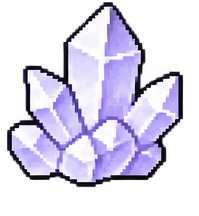
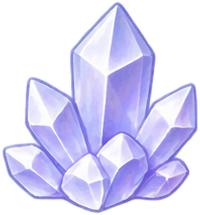
ore: 광석 그림을 새 그림으로 바꿈 — 일반 23개 · 특별 4개 (두 장 다 투명 바탕)
- 이전 그림(일반 · 특별)을 지우고 같은 자리 · 같은 번호로 다시 잘라 넣음
- 알파 4 아래 티끌은 지움

Claude-Session: https://claude.ai/code/session_01756qBPpCuB22evHBmdXYTY

diff --git a/ore/README.md b/ore/README.md
@@ -1,9 +1,8 @@
 # 광석 그림 (광석 채굴용 · 2026-11-23)
 
-아직 쓰는 코드 없음 — 그림만 모아 둠.
+아직 쓰는 코드 없음 — 그림만 모아 둠. (2026-11-23 새 그림으로 바꿈 — 두 장 다 투명 바탕)
 
-- `일반/01.png` ~ `23.png` — 투명 바탕 그림 한 장(6 · 6 · 6 · 5 줄)에서 한 개씩 잘라냄 (둘레 옅은 빛 번짐 그대로)
-- `특별/01.png` ~ `04.png` — 검은 바탕 그림 한 장의 네 개 (왼쪽 위 → 오른쪽 위 → 왼쪽 아래 → 오른쪽 아래)
-  - 검정을 걷어 투명 바탕으로 — 밝은 몸통은 불투명, 빛 번짐 · 고리 · 연기는 밝기만큼 반투명 (어두운 바탕에서 원래 그림과 같게 보임)
-  - 02(검은 광석)는 몸통의 어두운 면도 불투명으로
+- `일반/01.png` ~ `23.png` — 투명 바탕 그림 한 장(6 · 6 · 6 · 5 줄)에서 한 개씩 잘라냄 · 떨어진 작은 조각은 가장 가까운 광석에 붙임
+- `특별/01.png` ~ `04.png` — 투명 바탕 그림 한 장의 네 개 (왼쪽 위 → 오른쪽 위 → 왼쪽 아래 → 오른쪽 아래 · 빛 번짐 · 고리 · 연기 · 반짝이 그대로)
+- 두 장 모두 알파 4 아래(거의 안 보이는 티끌)는 지움
 - `목록.json` — 파일마다 원래 그림의 줄 · 칸(일반) 또는 차례(특별), 크기, 원래 그림 안의 자리
